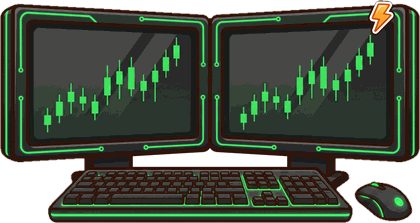
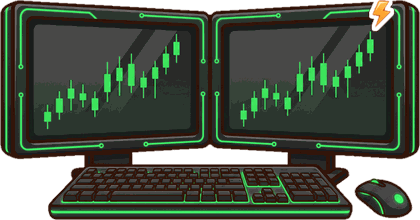
Ordi n°2 re-détouré, aide des étagères sans carte, 12 places à la ligne, défi du trader plus compact

diff --git a/js/assets.js b/js/assets.js
@@ -1,3 +1,3 @@
 /* généré par tools/manifest.py */
 window.ASSETS = ["ach-aga100", "ach-agr3", "ach-bets50", "ach-bets500", "ach-boo50", "ach-car1", "ach-car7", "ach-cards30", "ach-cards60", "ach-club10", "ach-combi20", "ach-combi3", "ach-cool50", "ach-cr10", "ach-crp25", "ach-dance30", "ach-deal10", "ach-deal50", "ach-decos5", "ach-first-bet", "ach-garage3", "ach-gold5", "ach-hodl", "ach-item10", "ach-jackpot", "ach-look2", "ach-lvl10", "ach-lvl20", "ach-mine10", "ach-mine200", "ach-prop1", "ach-prop4", "ach-quests5", "ach-resell25", "ach-rigmax", "ach-roul50", "ach-roul500", "ach-scr50", "ach-scr500", "ach-ser1", "ach-ser5", "ach-skin3", "ach-slots4", "ach-sneak5", "ach-spin100", "ach-spin1000", "ach-stk10", "ach-stock50", "ach-streak7", "ach-tip20", "ach-w100k", "ach-w10k", "ach-w1m", "ach-watch3", "ach-win10", "ach-win100", "ach-win500", "act-collab", "act-live", "act-rest", "act-shoot", "act-trip", "app-agence", "app-bank", "app-bets", "app-binder", "app-boosters", "app-crypto", "app-immo", "app-infos", "app-missions", "app-msg", "app-objets", "app-settings", "art-c-signed", "art-coach-foot", "art-coach-tennis", "art-fan-ultra", "art-k-b1", "art-k-b10", "art-k-b11", "art-k-b12", "art-k-b2", "art-k-b3", "art-k-b4", "art-k-b5", "art-k-b6", "art-k-b7", "art-k-b8", "art-k-b9", "art-k-f1", "art-k-f10", "art-k-f11", "art-k-f12", "art-k-f13", "art-k-f14", "art-k-f15", "art-k-f16", "art-k-f17", "art-k-f18", "art-k-f19", "art-k-f2", "art-k-f20", "art-k-f21", "art-k-f22", "art-k-f23", "art-k-f24", "art-k-f3", "art-k-f4", "art-k-f5", "art-k-f6", "art-k-f7", "art-k-f8", "art-k-f9", "art-k-r1", "art-k-r2", "art-k-r3", "art-k-r4", "art-k-r5", "art-k-t1", "art-k-t10", "art-k-t11", "art-k-t12", "art-k-t2", "art-k-t3", "art-k-t4", "art-k-t5", "art-k-t6", "art-k-t7", "art-k-t8", "art-k-t9", "art-mascot", "art-ref-foot", "badge-xe", "bed-laptop-f", "bed-laptop-m", "bg-city", "bg-city-hiver", "bg-city-neon", "bg-city-renov", "bld-appart", "bld-appart-hiver", "bld-appart-neon", "bld-appart-renov", "bld-balto", "bld-balto-hiver", "bld-balto-neon", "bld-balto-renov", "bld-bijou", "bld-casino", "bld-casino-hiver", "bld-casino-neon", "bld-casino-renov", "bld-club", "bld-club-hiver", "bld-club-renov", "bld-garage", "bld-kiosque", "bld-kiosque-hiver", "bld-kiosque-neon", "bld-kiosque-renov", "bld-parking", "bld-shop", "bld-shop-hiver", "bld-shop-neon", "bld-shop-renov", "bld-six", "bld-six-hiver", "bld-six-neon", "bld-six-off", "bld-six-renov", "bld-tour", "bonus-airdrop", "bonus-cash", "bonus-freebet", "bonus-lingots", "bonus-ticket", "bonus-xp", "booster-pack", "btn-momo", "btn-setup", "btn-upgrade", "card-back", "card-back-crea", "card-bg-basket", "card-bg-foot", "card-bg-rugby", "card-bg-tennis", "casino-machine", "cat-car", "cat-card", "cat-crea", "cat-gem", "cat-gold", "cat-moto", "cat-sneaker", "cat-trophy", "cat-watch", "chip-1", "chip-10", "chip-100", "chip-25", "chip-5", "chip-500", "club-door", "club-room", "coin-btk", "coin-dgk", "coin-eta", "coin-lmn", "coin-ppc", "coin-slr", "cr-eva", "cr-ines", "cr-jade", "cr-kim", "cr-leila", "cr-lola", "cr-mila", "cr-nora", "cr-rose", "cr-sasha", "cred-boss", "cred-caid", "cred-hustler", "cred-magnat", "crest-b1", "crest-b10", "crest-b11", "crest-b12", "crest-b2", "crest-b3", "crest-b4", "crest-b5", "crest-b6", "crest-b7", "crest-b8", "crest-b9", "crest-f1", "crest-f10", "crest-f11", "crest-f12", "crest-f13", "crest-f14", "crest-f15", "crest-f16", "crest-f17", "crest-f18", "crest-f19", "crest-f2", "crest-f20", "crest-f21", "crest-f22", "crest-f23", "crest-f24", "crest-f3", "crest-f4", "crest-f5", "crest-f6", "crest-f7", "crest-f8", "crest-f9", "crest-r1", "crest-r2", "crest-r3", "crest-r4", "crest-r5", "crest-r6", "deco-chaudron", "deco-citrouilles", "deco-dc-arcade", "deco-dc-ball", "deco-dc-bench", "deco-dc-car", "deco-dc-flags", "deco-dc-fountain", "deco-dc-kebab", "deco-dc-lamp", "deco-dc-palm", "deco-dc-posts", "deco-dc-statue", "deco-dc-trophy", "deco-toiles", "deco-tombe", "ev-boost", "ev-cdm-bg", "ev-cdm-board", "ev-cdm-candy", "ev-cdm-chest", "ev-cdm-cup", "ev-rig", "ev-sale", "ev-xp", "frame-cdm", "frame-gold", "frame-six", "full-c-ace", "full-c-ballon", "full-c-dunk", "full-c-essai", "full-c-final", "full-c-goat", "full-c-graded", "full-coach", "full-k-b4", "full-k-f4", "full-k-f8", "full-k-t1", "full-rookie", "fx-smoke", "gear-cam", "gear-cosplay", "gear-gown", "gear-mic", "gear-ring", "gear-spa", "gear-sport", "gear-studio", "gear-travel", "gift-big", "gift-open", "graded-slab", "guide", "hab-club", "hab-drink", "hab-smoke", "hdr-daily", "hdr-levelup", "hdr-missions", "hdr-settings", "ic-ad-reward", "ic-bell", "ic-burn", "ic-bus", "ic-club-bar", "ic-club-dance", "ic-club-dj", "ic-club-door", "ic-club-lounge", "ic-club-vip", "ic-down", "ic-ev-cdm", "ic-fan", "ic-flame", "ic-heat", "ic-info", "ic-mood", "ic-pickaxe", "ic-promo", "ic-promo-bf", "ic-promo-halloween", "ic-promo-noel", "ic-rumor", "ic-shelf", "ic-shop-lingots", "ic-shop-ville", "ic-sport-all", "ic-sport-basket", "ic-sport-foot", "ic-sport-tennis", "ic-subs", "ic-target", "ic-timer", "ic-truck", "ic-unlock", "ic-up", "ic-videur", "ic-virus", "icon-arrowL", "icon-arrowR", "icon-bolt", "icon-cash", "icon-check", "icon-dice", "icon-gear", "icon-gift", "icon-lingot", "icon-lock", "icon-mute", "icon-sound", "icon-star", "icon-treasure", "icon-trophy", "item-c-1st", "item-c-dragon", "item-c-holo", "item-c-psa10", "item-c-signed", "item-cr-betonnard", "item-cr-biscotto", "item-cr-bitumouche", "item-cr-canardo", "item-cr-chenillette", "item-cr-cosmo", "item-cr-crocodalle", "item-cr-electrochat", "item-cr-escargoat", "item-cr-fenekko", "item-cr-flamenkoh", "item-cr-fourmidable", "item-cr-golemneon", "item-cr-gorilleur", "item-cr-grenouf", "item-cr-herissnik", "item-cr-hiboss", "item-cr-kaiju", "item-cr-kebabzor", "item-cr-kraken", "item-cr-licornette", "item-cr-liontours", "item-cr-louperiph", "item-cr-matouz", "item-cr-moustikass", "item-cr-pandagrillz", "item-cr-parrain", "item-cr-phenix", "item-cr-pigeonnard", "item-cr-poubellou", "item-cr-ratchou", "item-cr-requinoir", "item-cr-scarabling", "item-cr-serpentdor", "item-cr-taupecash", "item-cr-tigresko", "item-cr-trotilezard", "item-cr-yetiz", "item-g-comic", "item-g-diam", "item-g-earrings", "item-g-egg", "item-g-emerald", "item-g-pearl", "item-g-roman", "item-g-ruby", "item-g-sapphire", "item-m-cafe", "item-m-chopper", "item-m-cross", "item-m-road", "item-m-scoot", "item-m-sport", "item-m-touring", "item-m-trike", "item-o-bar10", "item-o-bar100", "item-o-chain", "item-o-lion", "item-o-napo", "item-o-nugget", "item-o-ring", "item-p-flat", "item-p-office", "item-p-park", "item-p-studio", "item-s-basket", "item-s-camo", "item-s-chunky", "item-s-collab", "item-s-court", "item-s-gold", "item-s-graff", "item-s-lux", "item-s-moon", "item-s-neon", "item-s-retro", "item-s-runner", "item-s-skate", "item-st-kbc", "item-st-mtr", "item-st-nbk", "item-st-pxl", "item-st-sol", "item-st-stw", "item-t-collect", "item-t-combi", "item-t-first", "item-t-hodl", "item-t-jackpot", "item-v-city", "item-v-electric", "item-v-gti", "item-v-hyper", "item-v-muscle", "item-v-pickup", "item-v-rally", "item-v-super", "item-v-van", "item-w-chrono", "item-w-digital", "item-w-diver", "item-w-field", "item-w-grail", "item-w-iced", "item-w-pilot", "item-w-pocket", "item-w-quartz", "item-w-sq", "item-w-steel", "item-w-tourb", "item-w-unique", "load-1", "load-2", "load-3", "load-4", "load-5", "load-6", "load-7", "load-8", "logo", "medal-gold", "medal-silver", "minerv-0", "minerv-1", "minerv-2", "minerv-3", "minerv-4", "nav-bets", "nav-city", "nav-home", "nav-shop", "nav-trading", "nav-wallet", "niche-beaute", "niche-bienetre", "niche-cuisine", "niche-danse", "niche-fitness", "niche-gaming", "niche-mode", "niche-musique", "niche-voyage", "pack-collec", "pack-magnat", "pack-noads", "pack-pass", "pack-start", "parking-bg", "pc-0", "pc-1", "pc-2", "pcv-0", "pcv-1", "pcv-2", "pcv-r1", "pcv-r2", "pcv-r3", "pcv-r4", "phone-wall", "pin-demons", "pin-fantomes", "pin-vampires", "pin-zombies", "player-t1", "player-t10", "player-t11", "player-t12", "player-t2", "player-t3", "player-t4", "player-t5", "player-t6", "player-t7", "player-t8", "player-t9", "pop-starter", "rig-0", "rig-1", "rig-2", "rig-3", "rig-4", "rigv-0", "rigv-1", "rigv-2", "rigv-3", "rigv-4", "ringlight", "room-f-0", "room-f-1", "room-f-2", "room-m-0", "room-m-1", "room-m-2", "roulette-felt", "roulette-hub", "scr-beer", "scr-burger", "scr-headphones", "scr-scooter", "shop-hero", "shop-lingot-1", "shop-lingot-2", "shop-lingot-3", "shop-lingot-4", "shop-lingot-5", "shop-lingot-6", "skin-boss", "skin-boss-bust", "skin-doudoune", "skin-doudoune-bust", "skin-flambeur", "skin-flambeur-bust", "skin-gold", "skin-gold-bust", "skin-hoodie", "skin-hoodie-bust", "skin-sportive", "skin-sportive-bust", "skin-survet", "skin-survet-bust", "slot-bar", "slot-bell", "slot-cherry", "slot-diam", "slot-lemon", "slot-seven", "team-demons", "team-fantomes", "team-vampires", "team-zombies", "ticket-flash", "tip-crypto", "tip-market", "tip-sport", "tk-astro", "tk-banco", "tk-black", "tk-flash", "tk-millio", "tk-morpion", "tkbg-astro", "tkbg-banco", "tkbg-black", "tkbg-flash", "tkbg-millio", "tkbg-morpion", "ui-avatar-frame", "ui-badge", "ui-bar-fill", "ui-bar-frame", "ui-btn-blue", "ui-btn-close", "ui-btn-green", "ui-btn-grey", "ui-btn-plus", "ui-btn-purple", "ui-btn-red", "ui-btn-yellow", "ui-card", "ui-casino-frame", "ui-casino-header", "ui-navbtn", "ui-panel", "ui-pill", "ui-ribbon", "ui-tab-off", "ui-tab-on", "ui-tuto-arrow", "wx-bear", "wx-bull", "wx-calm", "wx-fomo", "wx-krach"];
-window.ASSET_V = 1791394957;
+window.ASSET_V = 1791395804;

diff --git a/js/ui.js b/js/ui.js
@@ -380,7 +380,7 @@
       : `<div class="card center"><b>Machine à crypto</b><p>Au maximum. Respect.</p></div>`;
     const rp = nr && G.cost(nr.cost), full = G.ownedCount() >= G.roomSlots();
     const flat = nr ? `<div class="card up-card ${s.cash >= rp ? 'ready' : ''}"><div class="up-img up-room" style="background-image:url(${src(room(s.room + 1))})"></div><div class="up-info"><small class="muted">Ton appart${full ? ' · étagères pleines !' : ''}</small><b>${nr.name}</b>
-        <p>${nr.desc} <b>${nr.slots} places</b> pour ta collection (tu en as ${D.ROOMS[s.room].slots}).</p>
+        <p>${nr.desc}<br><b>${nr.slots} places</b> pour ta collection (tu en as ${D.ROOMS[s.room].slots}).</p>
         <button class="btn ${s.cash >= rp ? 'green' : ''} wide" data-act="roomUp" ${s.cash >= rp ? '' : 'disabled'}>Emménager · ${short(rp)}</button>${mixBtn(rp, 'roomUpL')}</div></div>`
       : `<div class="card center"><b>Ton appart</b><p>Le plus bel appart du quartier. Respect.</p></div>`;
     const pn = G.pcNext(), fpc = f => (f * 100).toFixed(1).replace('.', ',').replace(',0', '') + ' %';
@@ -1059,7 +1059,7 @@
       <div class="help-row">${pic(has('minerv-' + st().rig.lvl) ? 'minerv-' + st().rig.lvl : 'rig-0', EMO.rig)}<div><b>La machine à crypto</b><p>Elle fabrique de l'argent toute seule, même quand tu n'es pas là. Elle chauffe et s'arrête au bout d'un moment : touche sa bulle pour encaisser, ça la relance.</p></div></div>
       <div class="help-row">${pic(pcLook(), EMO.pc)}<div><b>Ton PC</b><p>Tu y achètes des cryptos : des monnaies dont le prix bouge tout le temps. Achète quand c'est bas, revends quand c'est haut. Si ça baisse, tu perds.</p></div></div>
       <div class="help-row"><span class="pic help-phone"><i class="ph-mini"><i></i></i></span><div><b>Ton téléphone</b><p>Pour déménager (appli Appart'Immo), voir ta banque, tes paris et les messages de tes contacts.</p></div></div>
-      <div class="help-row">${pic('item-c-holo', '🃏')}<div><b>Tes étagères</b><p>Tes objets de collection s'y exposent. Leur prix bouge aussi : touche un objet pour voir combien il vaut et le revendre.</p></div></div>
+      <div class="help-row">${pic('item-w-grail', '⌚')}<div><b>Tes étagères</b><p>Tes objets de collection s'y exposent. Leur prix bouge aussi : touche un objet pour voir combien il vaut et le revendre.</p></div></div>
       <button class="btn green wide" data-act="closeModal">Compris</button>` });
   }
 
@@ -1157,8 +1157,8 @@
   function traderCard() {
     const tr = G.traderState(), goal = G.traderGoal(), done = tr.profit >= goal, n = D.PCX.trader.lingots + Math.floor(st().lvl / 3);
     return `<div class="card trader ${tr.claimed ? 'got' : done ? 'ready' : ''}"><span class="tr-ic">${ico('ic-target', '🎯')}</span><div class="grow"><b>Défi du trader</b><small>${tr.claimed ? 'Réussi aujourd\'hui. Reviens demain !' : `Fais <b>+${short(goal)}</b> de bénéfice en revendant des cryptos aujourd'hui`}</small>
-      ${tr.claimed ? '' : `<div class="kh-bar"><i style="width:${Math.min(100, tr.profit / goal * 100)}%"></i></div><small>${short(Math.max(0, tr.profit))} / ${short(goal)}</small>`}
-      <p class="rw-get">Tu gagnes ${chips(0, n)}</p></div>
+      ${tr.claimed ? '' : `<div class="kh-bar"><i style="width:${Math.min(100, tr.profit / goal * 100)}%"></i></div>`}
+      <div class="tr-foot">${tr.claimed ? '' : `<small>${short(Math.max(0, tr.profit))} / ${short(goal)}</small>`}<p class="rw-get">Tu gagnes ${chips(0, n)}</p></div></div>
       ${tr.claimed ? '<span class="rw-done">✓ Déjà récupéré</span>' : done ? '<button class="btn green sm" data-act="traderClaim">Réclamer</button>' : ''}</div>`;
   }
   function flashBanner() {

diff --git a/game.html b/game.html
@@ -148,7 +148,7 @@
   // Chargement du jeu. En local : les fichiers du dossier. Mis à jour depuis internet (index.html) : le code vient
   // de raw.githubusercontent (rapide et toujours à jour), les images du dossier local quand on joue sur son ordi.
   (function () {
-    var V = '?v=381', FILES = ['js/layout.js', 'js/data.js', 'js/content.js', 'js/assets.js', 'js/game.js', 'js/audio.js', 'js/ui.js', 'js/casino.js', 'js/scratch.js', 'js/balto.js', 'js/agence.js', 'js/tuto.js', 'js/online.js', 'js/push.js'].slice(), CSS = 'css/style.css';
+    var V = '?v=382', FILES = ['js/layout.js', 'js/data.js', 'js/content.js', 'js/assets.js', 'js/game.js', 'js/audio.js', 'js/ui.js', 'js/casino.js', 'js/scratch.js', 'js/balto.js', 'js/agence.js', 'js/tuto.js', 'js/online.js', 'js/push.js'].slice(), CSS = 'css/style.css';
     var m = document.baseURI.match(/^https:\/\/cdn\.jsdelivr\.net\/gh\/([^@]+)@([^/]+)\//);
     if (!m) {
       document.write('<link rel="stylesheet" href="' + CSS + V + '">');

diff --git a/css/style.css b/css/style.css
@@ -3456,3 +3456,9 @@ html.lowfx #app .room-stage .room-obj.hot::after, html.lowfx #app .room-stage .r
 .age-card p { font-size: 15px; line-height: 1.45; margin: 0 0 16px; }
 .age-btns { display: flex; flex-direction: column; gap: 10px; align-items: center; }
 .age-btns .btn { min-width: 240px; }
+/* défi du trader : icône en haut à gauche, compteur et gain sur une seule ligne */
+#app .trader { align-items: flex-start; padding: 12px 14px; }
+#app .trader .tr-ic { flex: none; margin-top: 2px; }
+#app .trader .tr-ic img.ico { width: 40px; height: 40px; }
+#app .trader .tr-foot { display: flex; align-items: center; justify-content: space-between; gap: 8px; margin-top: 4px; }
+#app .trader .tr-foot .rw-get { margin: 0; }

diff --git a/tools/process.py b/tools/process.py
@@ -27,7 +27,7 @@ POCKETS = {
     'graded-slab': 'all',   # boîtier de carte gradée : fenêtre et étiquette vides (la carte s'affiche dessous)
     'item-t-collect': 'all', 'item-t-first': 'all', 'item-t-jackpot': 'all', 'item-t-hodl': 'all',
     **{f'rig-{i}': 'all' for i in range(5)}, **{f'rigv-{i}': 'all' for i in range(5)},
-    **{f'minerv-{i}': 'all' for i in range(5)}, **{f'pc-{i}': 'all' for i in range(3)}, **{f'pcv-{i}': 'all' for i in range(3)}, 'pcv-1': [], 'minerv-1': [], 'minerv-2': [], 'ringlight': {'n': [1, 2, 3]},   # {'n': [...]} = poches par numéro (--poches)   # écrans blancs / emblèmes blancs : aucun vide à retirer
+    **{f'minerv-{i}': 'all' for i in range(5)}, **{f'pc-{i}': 'all' for i in range(3)}, **{f'pcv-{i}': 'all' for i in range(3)}, **{f'pcv-r{i}': 'all' for i in range(1, 5)}, 'pcv-1': [], 'minerv-1': [], 'minerv-2': [], 'ringlight': {'n': [1, 2, 3]},   # {'n': [...]} = poches par numéro (--poches)   # écrans blancs / emblèmes blancs : aucun vide à retirer
 }
 MAX = {'load': 1080, 'parking': 1080, 'bg': 1080, 'room': 1080, 'club': 1080, 'tkbg': 640, 'bld': 640, 'skin': 560, 'ui': 900, 'default': 420}
 NOCUT = ('bg', 'room', 'club', 'tkbg', 'bonus', 'art', 'full', 'parking', 'load')   # décors : pas de détourage
